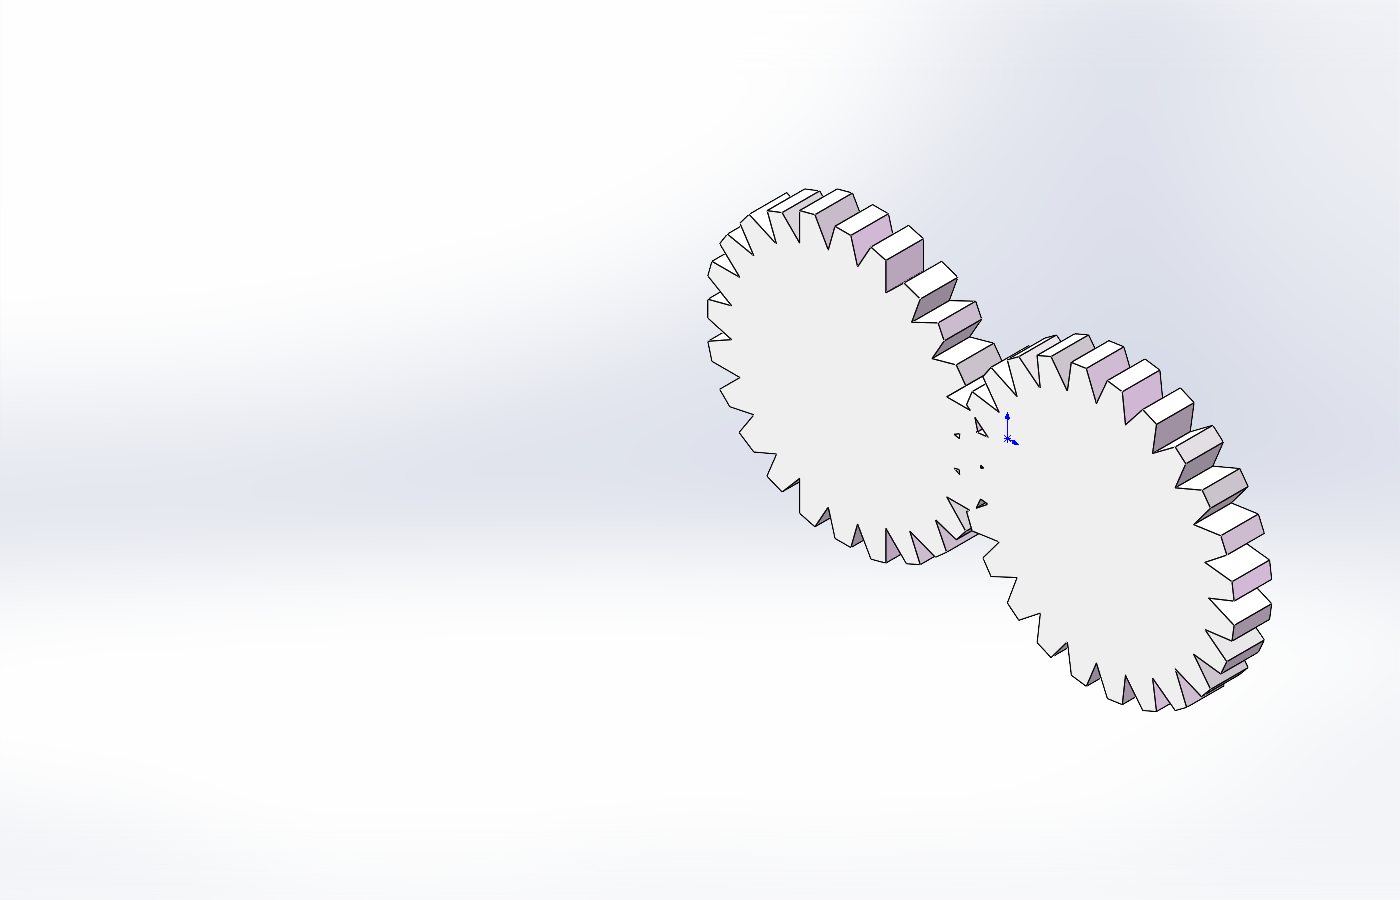
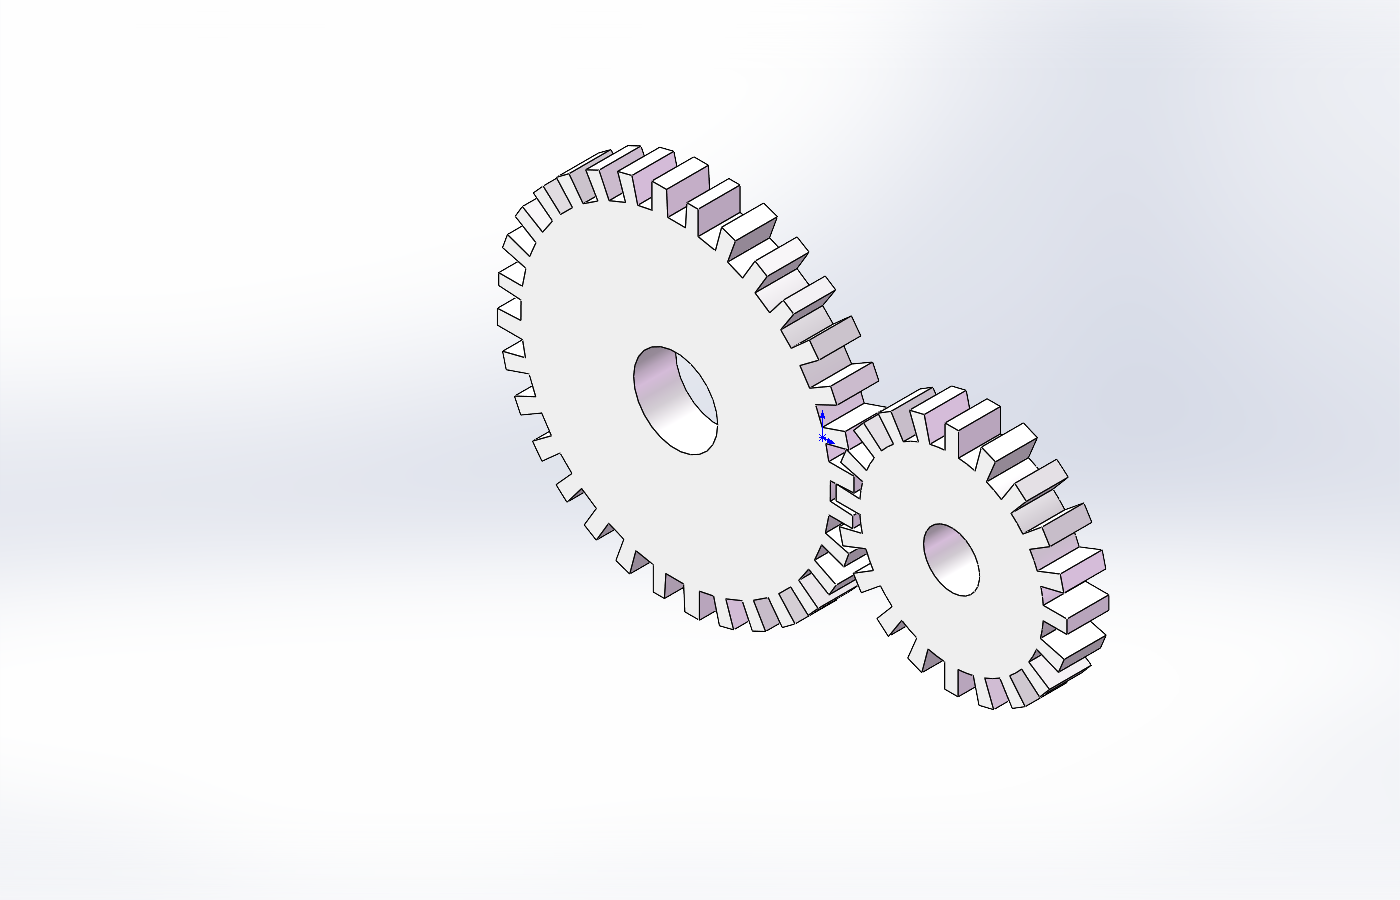
Improve gear pair example and close generated docs

diff --git a/scripts/create_gear_pair_test_part.py b/scripts/create_gear_pair_test_part.py
@@ -80,6 +80,29 @@ def draw_closed_polyline(sketch_manager, points: list[tuple[float, float]]) -> N
         sketch_manager.CreateLine(start[0], start[1], 0.0, end[0], end[1], 0.0)
 
 
+def tooth_profile(
+    center_x: float,
+    center_y: float,
+    angle: float,
+    pitch: float,
+    root_radius: float,
+    outer_radius: float,
+) -> list[tuple[float, float]]:
+    samples = [
+        (angle - 0.24 * pitch, root_radius),
+        (angle - 0.18 * pitch, outer_radius),
+        (angle + 0.18 * pitch, outer_radius),
+        (angle + 0.24 * pitch, root_radius),
+    ]
+    return [
+        (
+            center_x + radius * math.cos(sample_angle),
+            center_y + radius * math.sin(sample_angle),
+        )
+        for sample_angle, radius in samples
+    ]
+
+
 def select_front_plane(model, null_dispatch) -> None:
     selected = model.Extension.SelectByID2(
         "Front Plane", "PLANE", 0.0, 0.0, 0.0, False, 0, null_dispatch, 0
@@ -122,63 +145,147 @@ def extrude_current_sketch(model, thickness: float) -> None:
         raise RuntimeError("Gear extrusion failed.")
 
 
+def create_ring_base(
+    model,
+    null_dispatch,
+    center: tuple[float, float],
+    root_radius: float,
+    hole_radius: float,
+    thickness: float,
+) -> None:
+    select_front_plane(model, null_dispatch)
+    model.SketchManager.InsertSketch(True)
+    model.SketchManager.CreateCircleByRadius(center[0], center[1], 0.0, root_radius)
+    model.SketchManager.CreateCircleByRadius(center[0], center[1], 0.0, hole_radius)
+    model.SketchManager.InsertSketch(True)
+    extrude_current_sketch(model, thickness)
+
+
+def create_teeth(
+    model,
+    null_dispatch,
+    center: tuple[float, float],
+    teeth: int,
+    root_radius: float,
+    outer_radius: float,
+    rotation: float,
+    thickness: float,
+) -> None:
+    pitch = 2.0 * math.pi / teeth
+    for index in range(teeth):
+        select_front_plane(model, null_dispatch)
+        model.SketchManager.InsertSketch(True)
+        profile = tooth_profile(
+            center[0],
+            center[1],
+            rotation + index * pitch,
+            pitch,
+            root_radius,
+            outer_radius,
+        )
+        draw_closed_polyline(model.SketchManager, profile)
+        model.SketchManager.InsertSketch(True)
+        extrude_current_sketch(model, thickness)
+
+
 def create_gear_pair(
     sw,
     template: str,
     output: Path,
-    teeth: int,
-    pitch_radius_mm: float,
-    root_radius_mm: float,
-    outer_radius_mm: float,
+    large_teeth: int,
+    small_teeth: int,
+    module_mm: float,
     thickness_mm: float,
+    center_clearance_mm: float,
 ) -> None:
     null_dispatch = win32com.client.VARIANT(pythoncom.VT_DISPATCH, None)
+    close_document_by_path(sw, output)
     model = sw.NewDocument(template, 0, 0, 0) or sw.ActiveDoc
     if model is None:
         raise RuntimeError(f"Could not create a part from template: {template}")
 
-    pitch_radius = pitch_radius_mm / 1000.0
-    root_radius = root_radius_mm / 1000.0
-    outer_radius = outer_radius_mm / 1000.0
+    module = module_mm / 1000.0
     thickness = thickness_mm / 1000.0
-    center_distance = 2.0 * pitch_radius + 0.0008
-    left_center = (-center_distance / 2.0, 0.0)
-    right_center = (center_distance / 2.0, 0.0)
-    pitch_angle = 2.0 * math.pi / teeth
+    large_pitch_radius = 0.5 * large_teeth * module
+    small_pitch_radius = 0.5 * small_teeth * module
+    large_root_radius = large_pitch_radius - 1.25 * module
+    small_root_radius = small_pitch_radius - 1.25 * module
+    large_outer_radius = large_pitch_radius + module
+    small_outer_radius = small_pitch_radius + module
+    center_distance = large_pitch_radius + small_pitch_radius + center_clearance_mm / 1000.0
+    left_center = (-small_pitch_radius, 0.0)
+    right_center = (large_pitch_radius + center_clearance_mm / 1000.0, 0.0)
+    large_pitch_angle = 2.0 * math.pi / large_teeth
 
-    left = gear_points(
-        left_center[0],
-        left_center[1],
-        teeth,
-        root_radius,
-        outer_radius,
-        rotation=0.0,
+    create_ring_base(model, null_dispatch, left_center, large_root_radius, 0.012, thickness)
+    create_teeth(
+        model,
+        null_dispatch,
+        left_center,
+        large_teeth,
+        large_root_radius,
+        large_outer_radius,
+        rotation=0.5 * large_pitch_angle,
+        thickness=thickness,
     )
-    right = gear_points(
-        right_center[0],
-        right_center[1],
-        teeth,
-        root_radius,
-        outer_radius,
-        rotation=math.pi - 0.5 * pitch_angle,
+    create_ring_base(model, null_dispatch, right_center, small_root_radius, 0.008, thickness)
+    create_teeth(
+        model,
+        null_dispatch,
+        right_center,
+        small_teeth,
+        small_root_radius,
+        small_outer_radius,
+        rotation=math.pi,
+        thickness=thickness,
     )
-
-    select_front_plane(model, null_dispatch)
-    model.SketchManager.InsertSketch(True)
-    draw_closed_polyline(model.SketchManager, left)
-    model.SketchManager.InsertSketch(True)
-    extrude_current_sketch(model, thickness)
-
-    select_front_plane(model, null_dispatch)
-    model.SketchManager.InsertSketch(True)
-    draw_closed_polyline(model.SketchManager, right)
-    model.SketchManager.InsertSketch(True)
-    extrude_current_sketch(model, thickness)
 
     model.ForceRebuild3(False)
     result = model.SaveAs3(str(output.resolve()), 0, 2)
     print(f"SAVED_PART {output.resolve()}")
     print(f"SAVEAS3_RESULT {result}")
+
+
+def close_document_by_path(sw, path: Path) -> None:
+    target = str(path.resolve()).lower()
+    try:
+        documents = sw.GetDocuments()
+    except Exception:
+        return
+
+    if documents is None:
+        return
+
+    for document in documents:
+        try:
+            document_path = (
+                document.GetPathName
+                if isinstance(document.GetPathName, str)
+                else document.GetPathName()
+            )
+            document_path = str(document_path).lower()
+            title = document.GetTitle if isinstance(document.GetTitle, str) else document.GetTitle()
+        except Exception:
+            continue
+        if document_path == target:
+            sw.CloseDoc(title)
+            print(f"CLOSED_EXISTING {path.resolve()}")
+            return
+
+
+def close_document(sw, part: Path) -> None:
+    try:
+        model = sw.ActiveDoc
+        if model is None:
+            return
+        path_name = model.GetPathName if isinstance(model.GetPathName, str) else model.GetPathName()
+        path_name = str(path_name).lower()
+        title = model.GetTitle if isinstance(model.GetTitle, str) else model.GetTitle()
+        if path_name == str(part.resolve()).lower():
+            sw.CloseDoc(title)
+            print(f"CLOSED_DOC {part.resolve()}")
+    except Exception as exc:
+        print(f"WARN_CLOSE_DOC_FAILED {exc!r}")
 
 
 def export_png(sw, part: Path, png: Path) -> None:
@@ -213,11 +320,12 @@ def main() -> int:
     parser.add_argument("--template")
     parser.add_argument("--output", default="solidworks_gear_pair_test.SLDPRT")
     parser.add_argument("--image-output")
-    parser.add_argument("--teeth", type=int, default=24)
-    parser.add_argument("--pitch-radius-mm", type=float, default=40.0)
-    parser.add_argument("--root-radius-mm", type=float, default=35.8)
-    parser.add_argument("--outer-radius-mm", type=float, default=44.0)
+    parser.add_argument("--large-teeth", type=int, default=32)
+    parser.add_argument("--small-teeth", type=int, default=20)
+    parser.add_argument("--module-mm", type=float, default=3.0)
     parser.add_argument("--thickness-mm", type=float, default=12.0)
+    parser.add_argument("--center-clearance-mm", type=float, default=0.8)
+    parser.add_argument("--keep-open", action="store_true")
     args = parser.parse_args()
 
     pythoncom.CoInitialize()
@@ -230,14 +338,16 @@ def main() -> int:
             sw,
             template,
             Path(args.output),
-            args.teeth,
-            args.pitch_radius_mm,
-            args.root_radius_mm,
-            args.outer_radius_mm,
+            args.large_teeth,
+            args.small_teeth,
+            args.module_mm,
             args.thickness_mm,
+            args.center_clearance_mm,
         )
         if args.image_output:
             export_png(sw, Path(args.output), Path(args.image_output))
+        if not args.keep_open:
+            close_document(sw, Path(args.output))
     finally:
         pythoncom.CoUninitialize()
 

diff --git a/README.md b/README.md
@@ -110,6 +110,12 @@ python .\scripts\sw_probe.py --create-test-part --output .\solidworks_com_test.S
 python .\scripts\create_gear_pair_test_part.py --output .\solidworks_gear_pair_test.SLDPRT --image-output .\docs\images\solidworks-exports\gear_pair_test.png
 ```
 
+齿轮脚本默认会在保存和导出图片后关闭生成的 SolidWorks 文档，避免 SolidWorks 里堆积很多 `零件1`、`零件2` 这类窗口。如果需要保留窗口用于检查，可以追加：
+
+```powershell
+--keep-open
+```
+
 正常情况下会看到类似输出：
 
 ```text

diff --git a/README_en.md b/README_en.md
@@ -85,6 +85,8 @@ Create a meshing gear pair test part:
 python .\scripts\create_gear_pair_test_part.py --output .\solidworks_gear_pair_test.SLDPRT --image-output .\docs\images\solidworks-exports\gear_pair_test.png
 ```
 
+By default, the gear script closes the generated SolidWorks document after saving and exporting the preview image so repeated runs do not leave many `Part1`, `Part2`, or similar windows open. Add `--keep-open` if you want to inspect the generated part interactively.
+
 Expected output:
 
 ```text